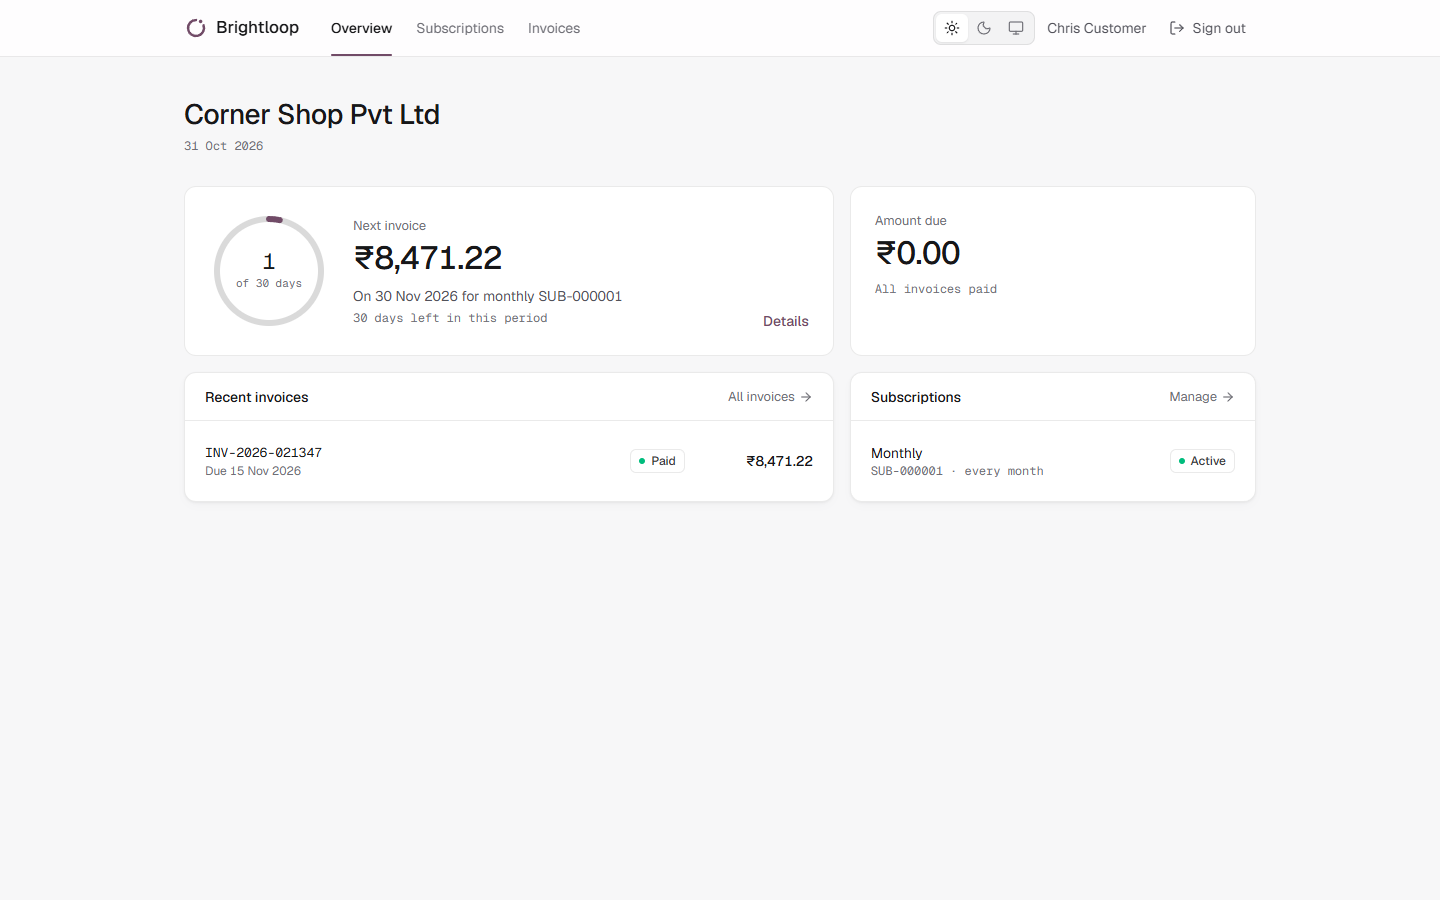
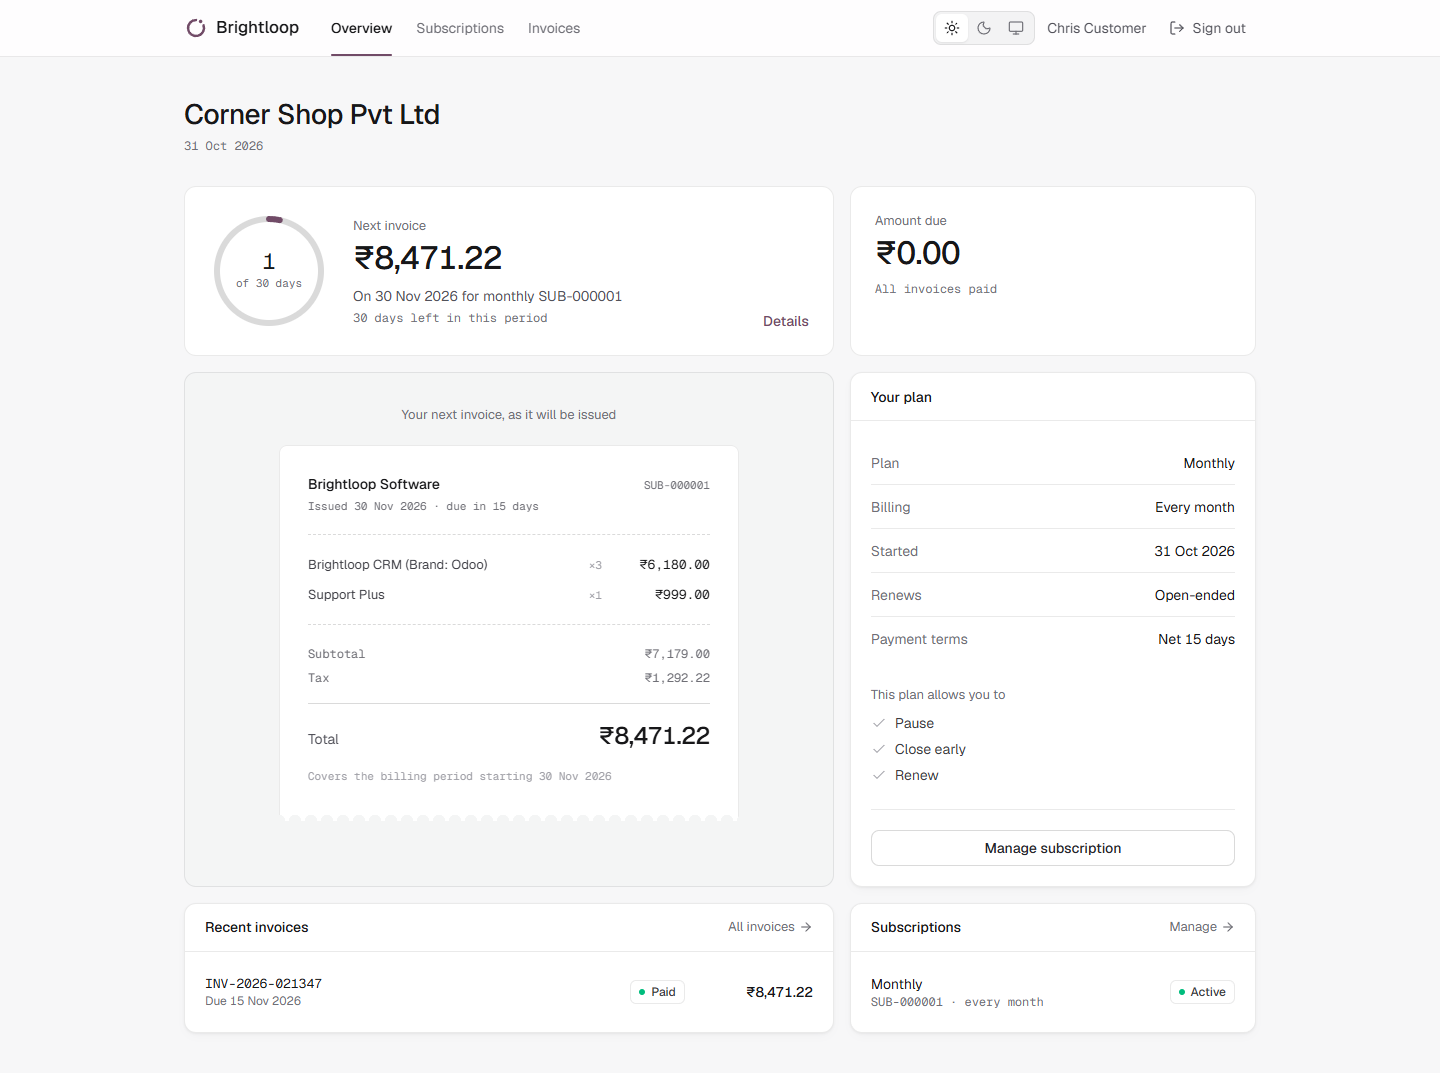
Show the next invoice as a receipt on the customer overview
The portal overview now previews the upcoming invoice line by line, with
discounts, tax and total, next to a plan summary with what the customer
can do, filling the page with real billing detail.

diff --git a/client/src/pages/portal/PortalHomePage.tsx b/client/src/pages/portal/PortalHomePage.tsx
@@ -1,7 +1,7 @@
 import { Link } from 'react-router-dom'
 import { useQuery } from '@tanstack/react-query'
 import { clsx } from 'clsx'
-import { ArrowRight } from 'lucide-react'
+import { ArrowRight, Check } from 'lucide-react'
 import { api, type Paginated } from '../../api/client'
 import { periodLabel, type InvoiceListItem, type Outstanding, type PortalSubscription } from '../../api/types'
 import { Badge, buttonClass, Card, EmptyState, ErrorState, Spinner } from '../../components/ui'
@@ -36,6 +36,101 @@ function PeriodRing({ day, days }: { day: number; days: number }) {
         of {days} days
       </text>
     </svg>
+  )
+}
+
+/** The next invoice drawn as a paper receipt: the one rich moment on the page. Built from the real priced lines. */
+function NextInvoiceReceipt({ sub }: { sub: PortalSubscription }) {
+  const t = sub.totals
+  const torn = 'radial-gradient(circle at 8px 100%, transparent 6px, #000 6.5px) -8px 0 / 16px 100% repeat-x'
+  return (
+    <div className="relative mx-auto w-full max-w-[460px]">
+      <div
+        className="rounded-t-lg border border-b-0 border-line bg-surface px-7 pt-7 pb-9 shadow-[0_1px_2px_rgba(0,0,0,0.04),0_12px_32px_-12px_rgba(0,0,0,0.18)]"
+        style={{ WebkitMask: torn, mask: torn }}
+      >
+        <div className="flex items-baseline justify-between">
+          <span className="text-sm font-medium text-slate-900">Brightloop Software</span>
+          <span className="font-mono text-[11px] text-slate-500">{sub.number}</span>
+        </div>
+        <p className="mt-1 font-mono text-[11px] text-slate-500">
+          Issued {date(sub.nextBillingDate)} · due in {sub.paymentTermDays} days
+        </p>
+        <div className="my-5 border-t border-dashed border-line-strong" />
+        <ul className="space-y-2.5">
+          {t.lines.map((l) => (
+            <li key={l.key} className="flex items-baseline gap-3 text-[13px]">
+              <span className="min-w-0 flex-1 truncate text-slate-700">{l.description}</span>
+              <span className="font-mono text-[11px] text-slate-400 tabular-nums">×{l.quantity}</span>
+              <span className="w-24 text-right font-mono text-slate-900 tabular-nums">{money(l.base)}</span>
+            </li>
+          ))}
+        </ul>
+        <div className="my-5 border-t border-dashed border-line-strong" />
+        <dl className="space-y-1.5 font-mono text-[12px] tabular-nums">
+          <div className="flex justify-between text-slate-500">
+            <dt>Subtotal</dt>
+            <dd>{money(t.subtotal)}</dd>
+          </div>
+          {t.discountTotal > 0 && (
+            <div className="flex justify-between text-emerald-700">
+              <dt>Discounts</dt>
+              <dd>−{money(t.discountTotal)}</dd>
+            </div>
+          )}
+          <div className="flex justify-between text-slate-500">
+            <dt>Tax</dt>
+            <dd>{money(t.taxTotal)}</dd>
+          </div>
+        </dl>
+        <div className="mt-4 flex items-baseline justify-between border-t border-line-strong pt-4">
+          <span className="text-sm text-slate-600">Total</span>
+          <span className="text-2xl font-medium tracking-[-0.015em] text-slate-900 tabular-nums">{money(t.total)}</span>
+        </div>
+        <p className="mt-4 font-mono text-[11px] text-slate-400">Covers the billing period starting {date(sub.nextBillingDate)}</p>
+      </div>
+    </div>
+  )
+}
+
+function PlanFacts({ sub }: { sub: PortalSubscription }) {
+  const can = [sub.plan.pausable && 'Pause', sub.plan.closable && 'Close early', sub.plan.renewable && 'Renew'].filter(Boolean) as string[]
+  const rows: [string, string][] = [
+    ['Plan', sub.plan.name],
+    ['Billing', periodLabel(sub.plan.billingPeriod, sub.plan.billingInterval)],
+    ['Started', date(sub.startDate)],
+    ['Renews', sub.expiryDate ? date(sub.expiryDate) : 'Open-ended'],
+    ['Payment terms', sub.paymentTermDays === 0 ? 'Due on issue' : `Net ${sub.paymentTermDays} days`],
+  ]
+  return (
+    <div className="flex h-full flex-col">
+      <dl className="divide-y divide-line">
+        {rows.map(([k, v]) => (
+          <div key={k} className="flex h-11 items-center justify-between text-sm">
+            <dt className="text-slate-500">{k}</dt>
+            <dd className="text-slate-900">{v}</dd>
+          </div>
+        ))}
+      </dl>
+      <p className="mt-6 text-[13px] text-slate-500">This plan allows you to</p>
+      {can.length ? (
+        <ul className="mt-2 space-y-1.5">
+          {can.map((c) => (
+            <li key={c} className="flex items-center gap-2 text-sm text-slate-700">
+              <Check className="h-4 w-4 text-slate-400" strokeWidth={1.5} />
+              {c}
+            </li>
+          ))}
+        </ul>
+      ) : (
+        <p className="mt-2 text-sm text-slate-500">Contact us to change this plan</p>
+      )}
+      <div className="mt-6 border-t border-line pt-5">
+        <Link to={`/portal/subscriptions/${sub.id}`} className={clsx(buttonClass('secondary'), 'w-full justify-center')}>
+          Manage subscription
+        </Link>
+      </div>
+    </div>
   )
 }
 
@@ -111,6 +206,18 @@ export function PortalHomePage() {
           )}
         </section>
       </div>
+
+      {next && period && (
+        <div className="mt-4 grid grid-cols-1 gap-4 lg:grid-cols-[minmax(0,1.6fr)_minmax(0,1fr)]">
+          <section className="rounded-xl border border-line bg-slate-100/50 px-6 py-8">
+            <p className="mb-5 text-center text-[13px] text-slate-500">{firstInvoice ? 'Your first invoice' : 'Your next invoice'}, as it will be issued</p>
+            <NextInvoiceReceipt sub={next} />
+          </section>
+          <Card title="Your plan">
+            <PlanFacts sub={next} />
+          </Card>
+        </div>
+      )}
 
       <div className="mt-4 grid grid-cols-1 gap-4 lg:grid-cols-[minmax(0,1.6fr)_minmax(0,1fr)]">
         <Card
